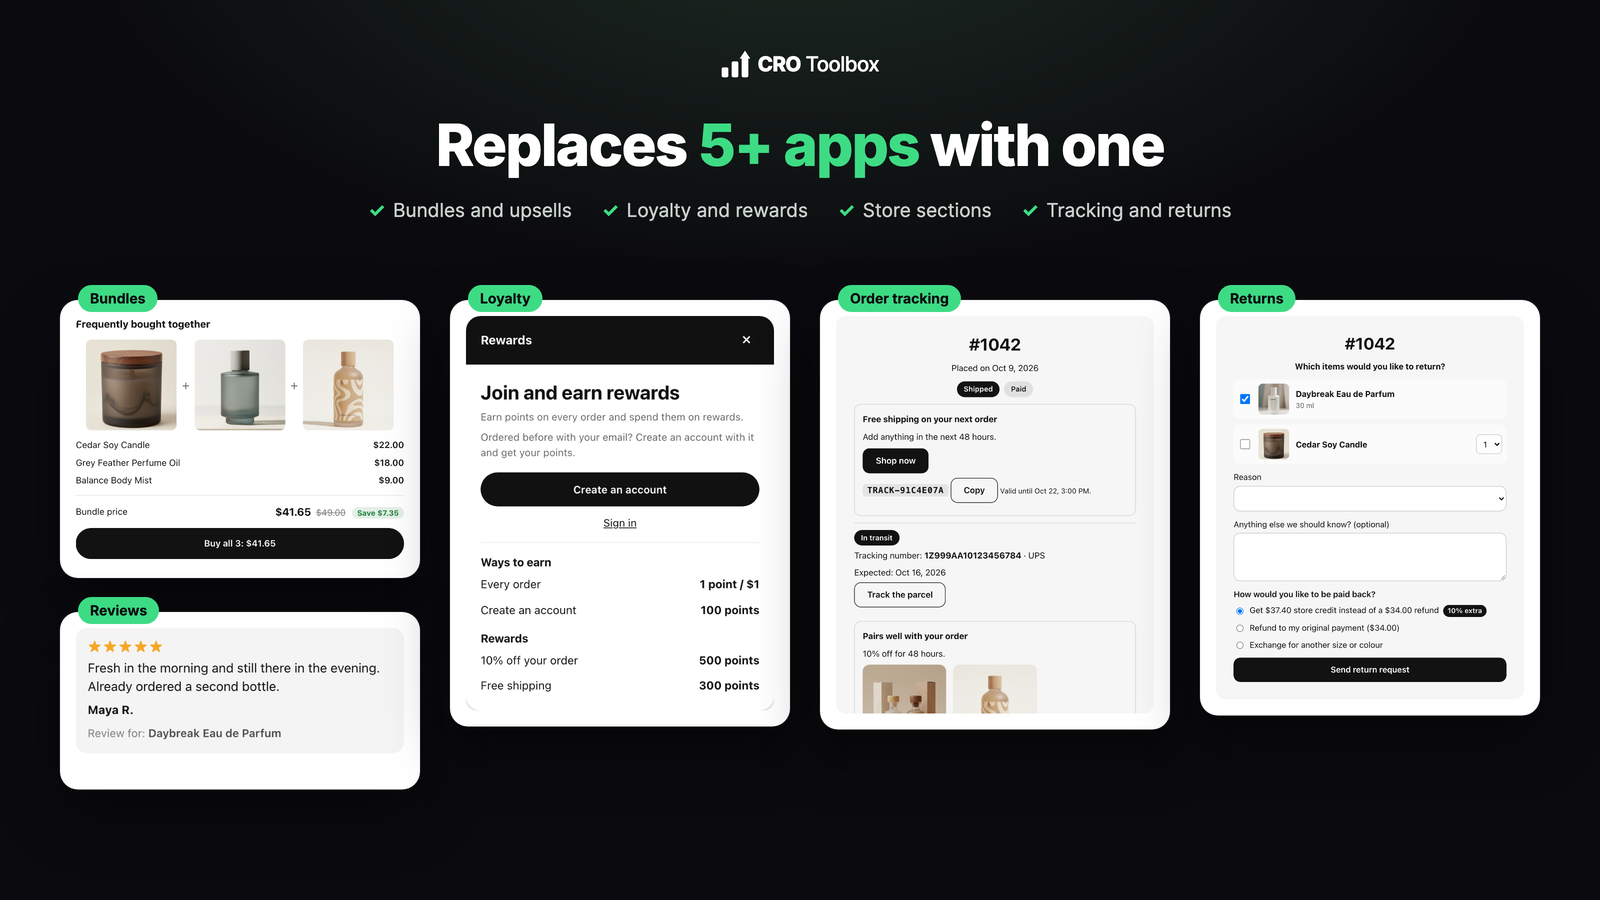
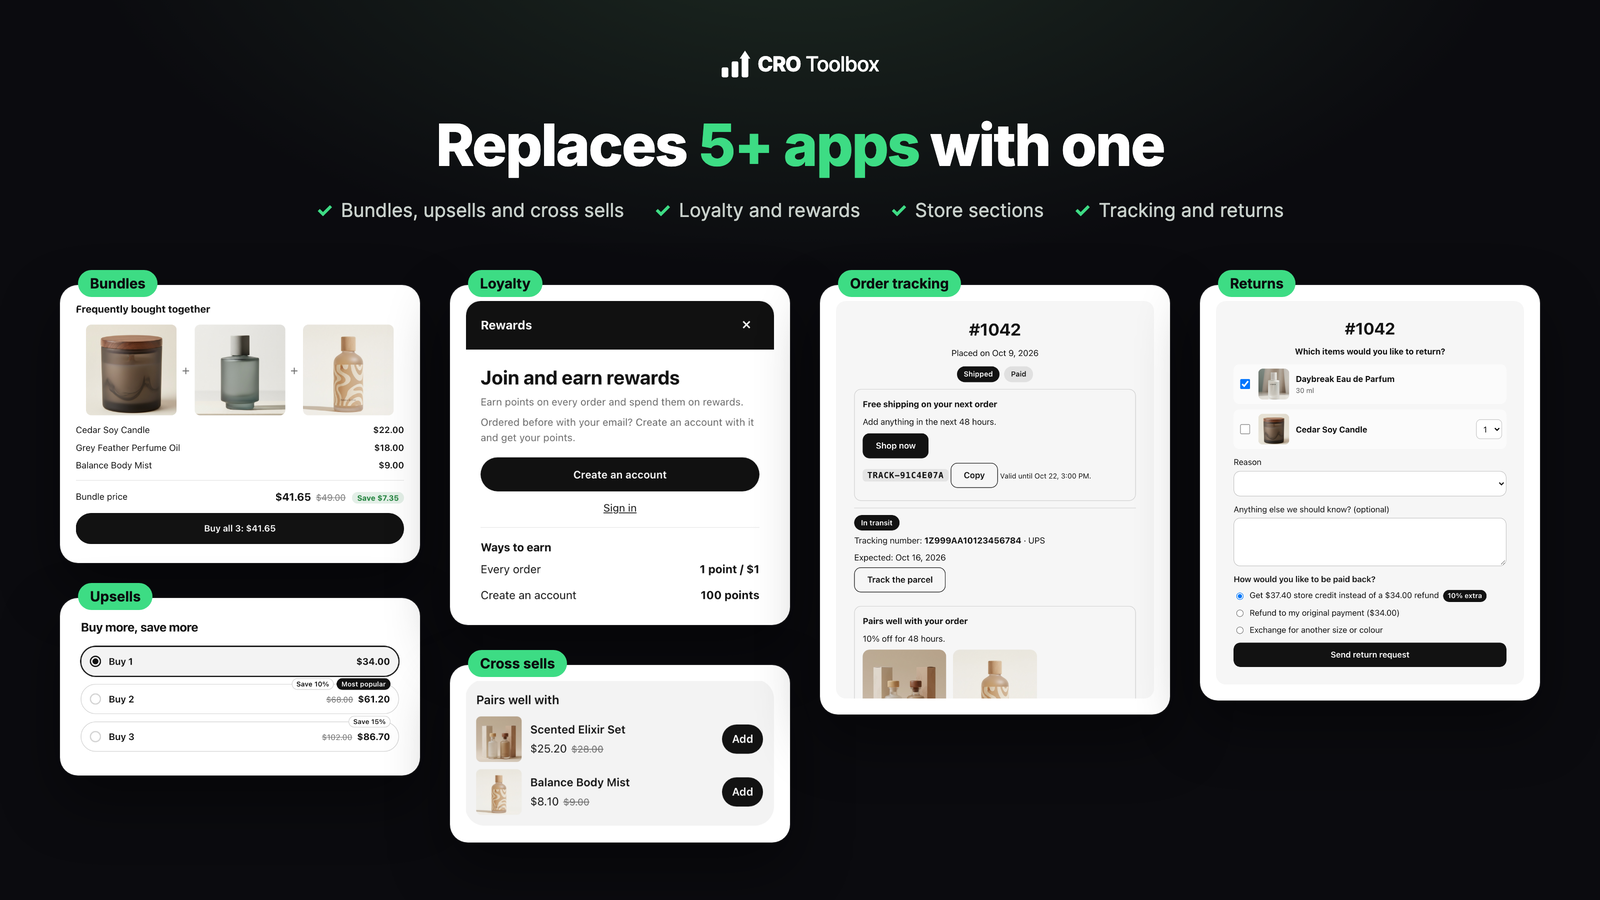
Listing: feature image adds upsells and cross sells

Changed region(s): [[0.0312, 0.28, 0.9688, 0.9644], [0.1875, 0.2178, 0.8125, 0.2489]]

diff --git a/branding/listing/templates/feature.html b/branding/listing/templates/feature.html
@@ -6,16 +6,17 @@
     <img class="logo" src="../logo.svg" alt="">
     <h1>Replaces <span>5+ apps</span> with one</h1>
     <div class="checks">
-      <div><b>✓</b>Bundles and upsells</div>
+      <div><b>✓</b>Bundles, upsells and cross sells</div>
       <div><b>✓</b>Loyalty and rewards</div>
       <div><b>✓</b>Store sections</div>
       <div><b>✓</b>Tracking and returns</div>
     </div>
   </div>
 
-  <div class="card" style="left:60px; top:300px; width:360px"><span class="tag">Bundles</span><img src="../widgets/fbt.png"></div>
-  <div class="card" style="left:60px; top:612px; width:360px"><span class="tag">Reviews</span><img src="../widgets/review.png"></div>
-  <div class="card" style="left:450px; top:300px; width:340px"><span class="tag">Loyalty</span><img src="../widgets/loyalty.png"></div>
-  <div class="card" style="left:820px; top:300px; width:350px"><span class="tag">Order tracking</span><img src="../widgets/track.png"></div>
-  <div class="card" style="left:1200px; top:300px; width:340px"><span class="tag">Returns</span><img src="../widgets/returns.png"></div>
+  <div class="card" style="left:60px; top:285px; width:360px"><span class="tag">Bundles</span><img src="../widgets/fbt.png"></div>
+  <div class="card" style="left:60px; top:598px; width:360px"><span class="tag">Upsells</span><img src="../widgets/qty.png"></div>
+  <div class="card" style="left:450px; top:285px; width:340px"><span class="tag">Loyalty</span><div style="height:308px;overflow:hidden;border-radius:10px"><img src="../widgets/loyalty.png"></div></div>
+  <div class="card" style="left:450px; top:665px; width:340px"><span class="tag">Cross sells</span><img src="../widgets/cart.png"></div>
+  <div class="card" style="left:820px; top:285px; width:350px"><span class="tag">Order tracking</span><img src="../widgets/track.png"></div>
+  <div class="card" style="left:1200px; top:285px; width:340px"><span class="tag">Returns</span><img src="../widgets/returns.png"></div>
 </body></html>
